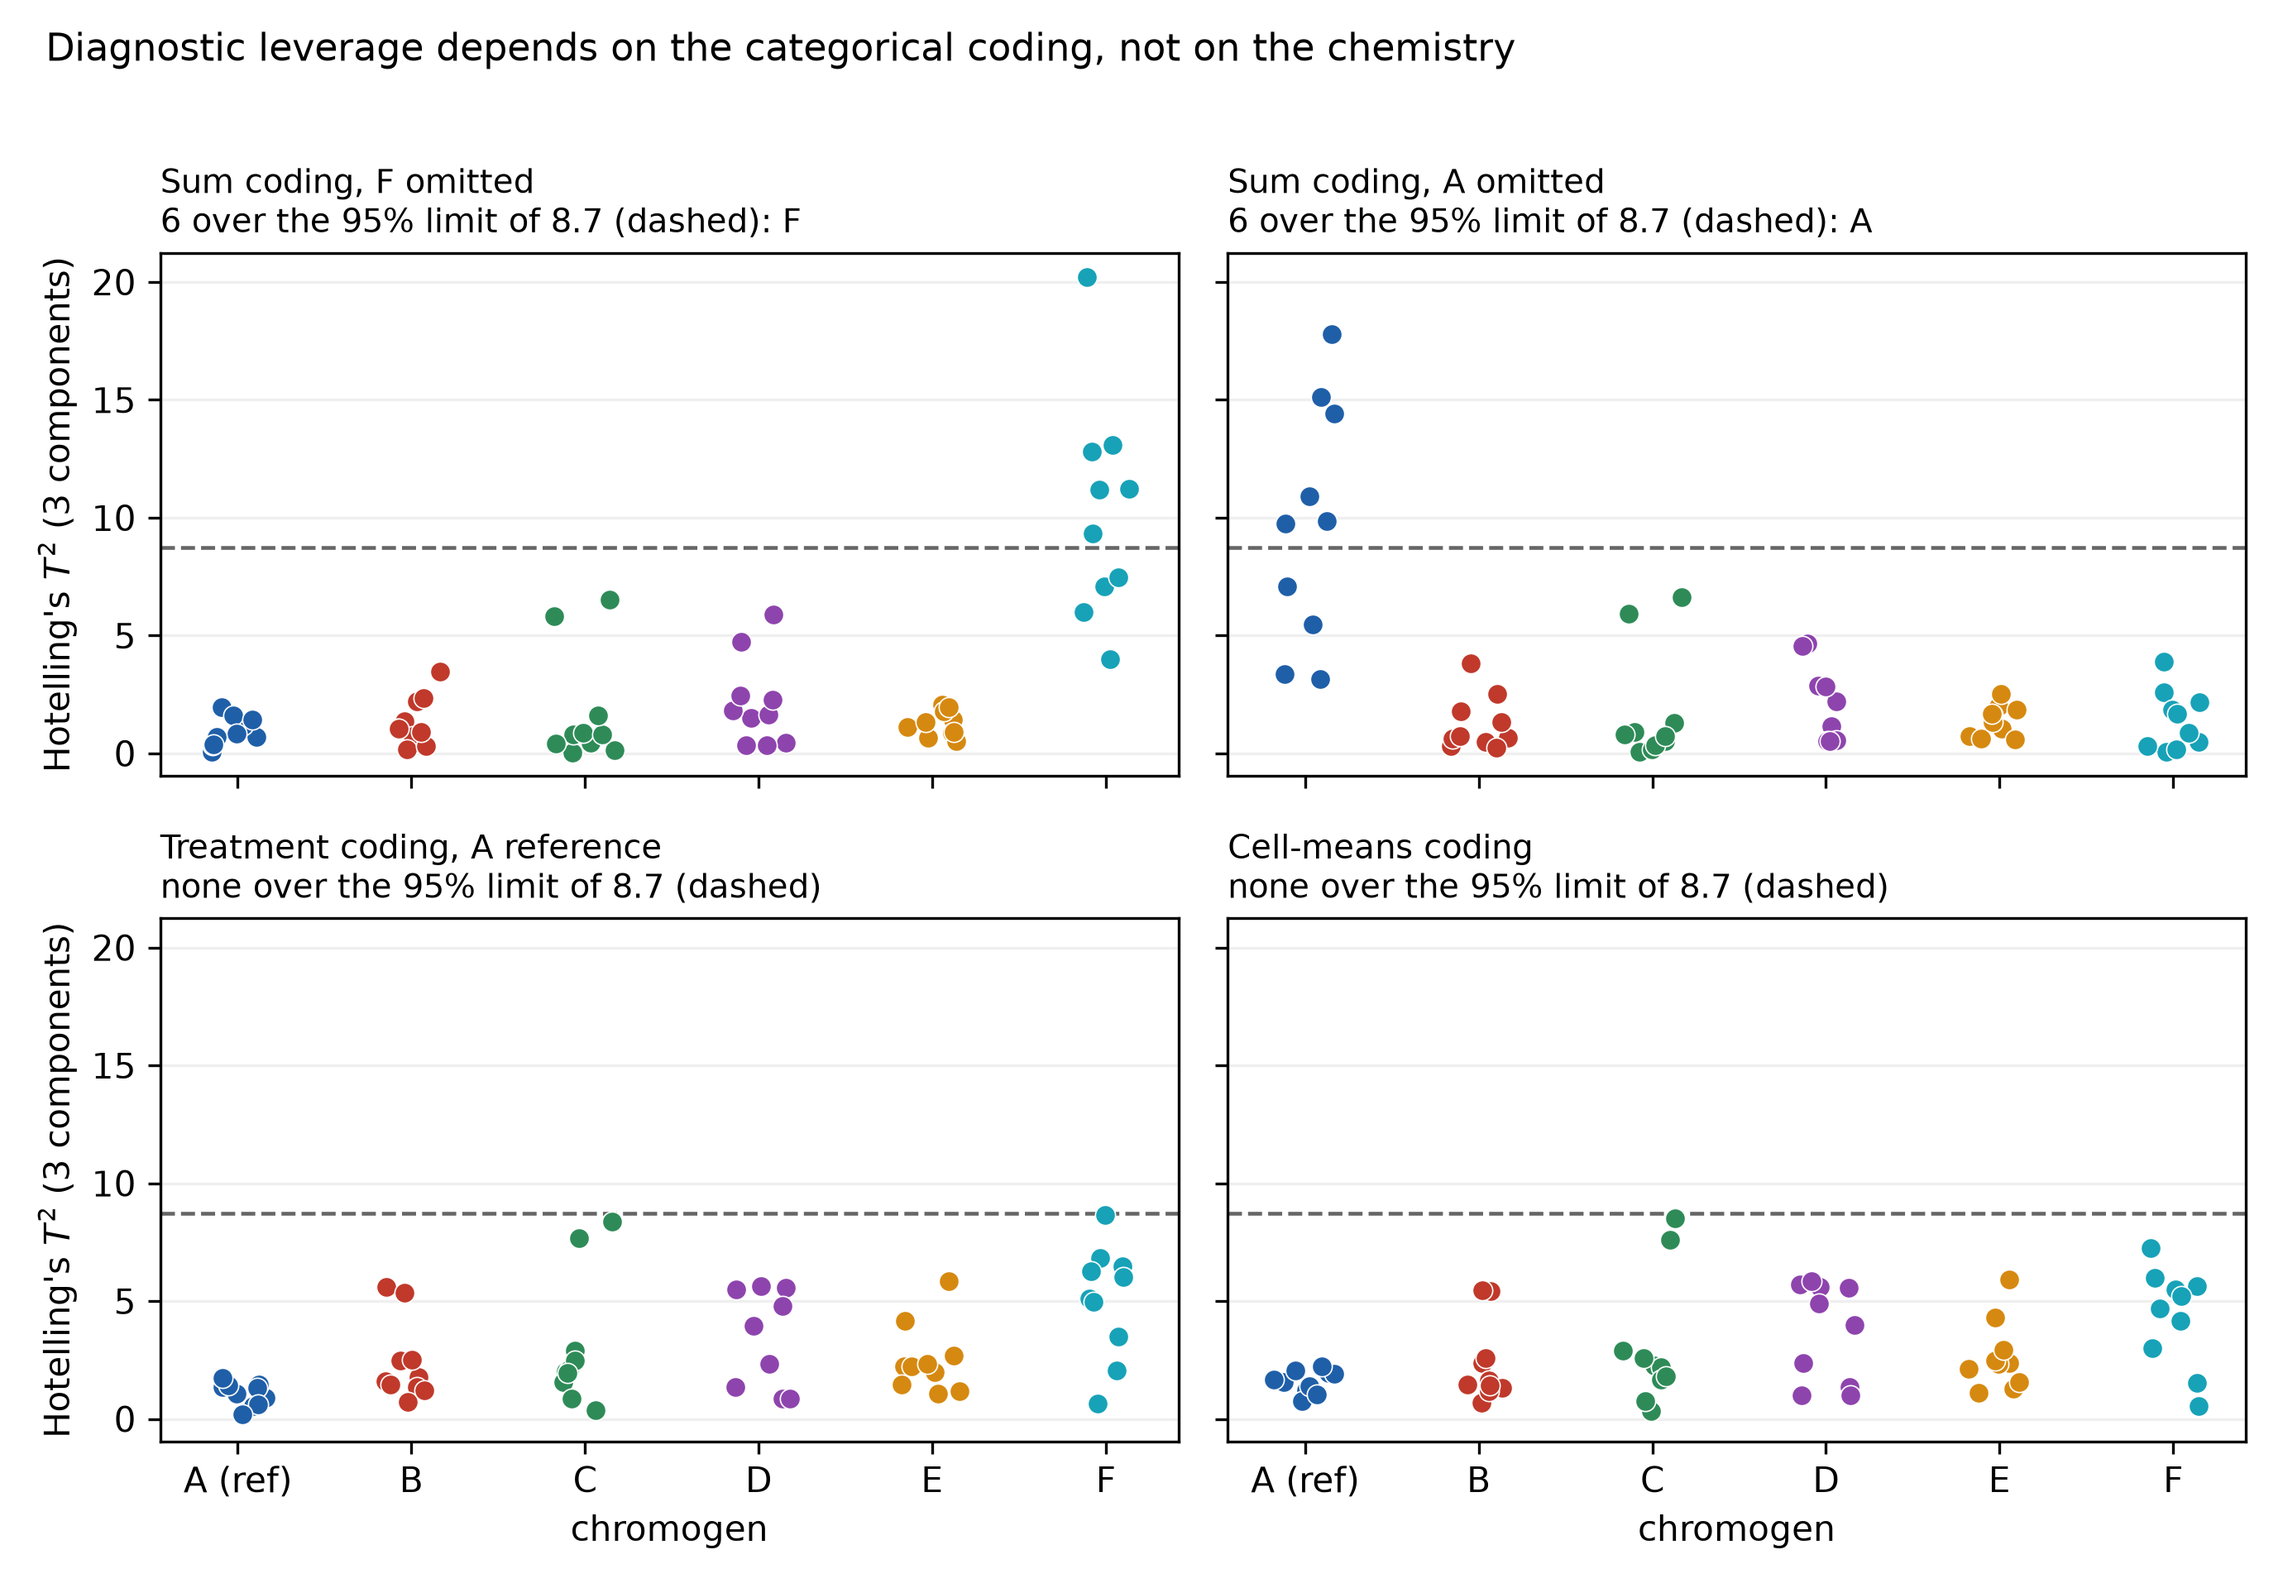
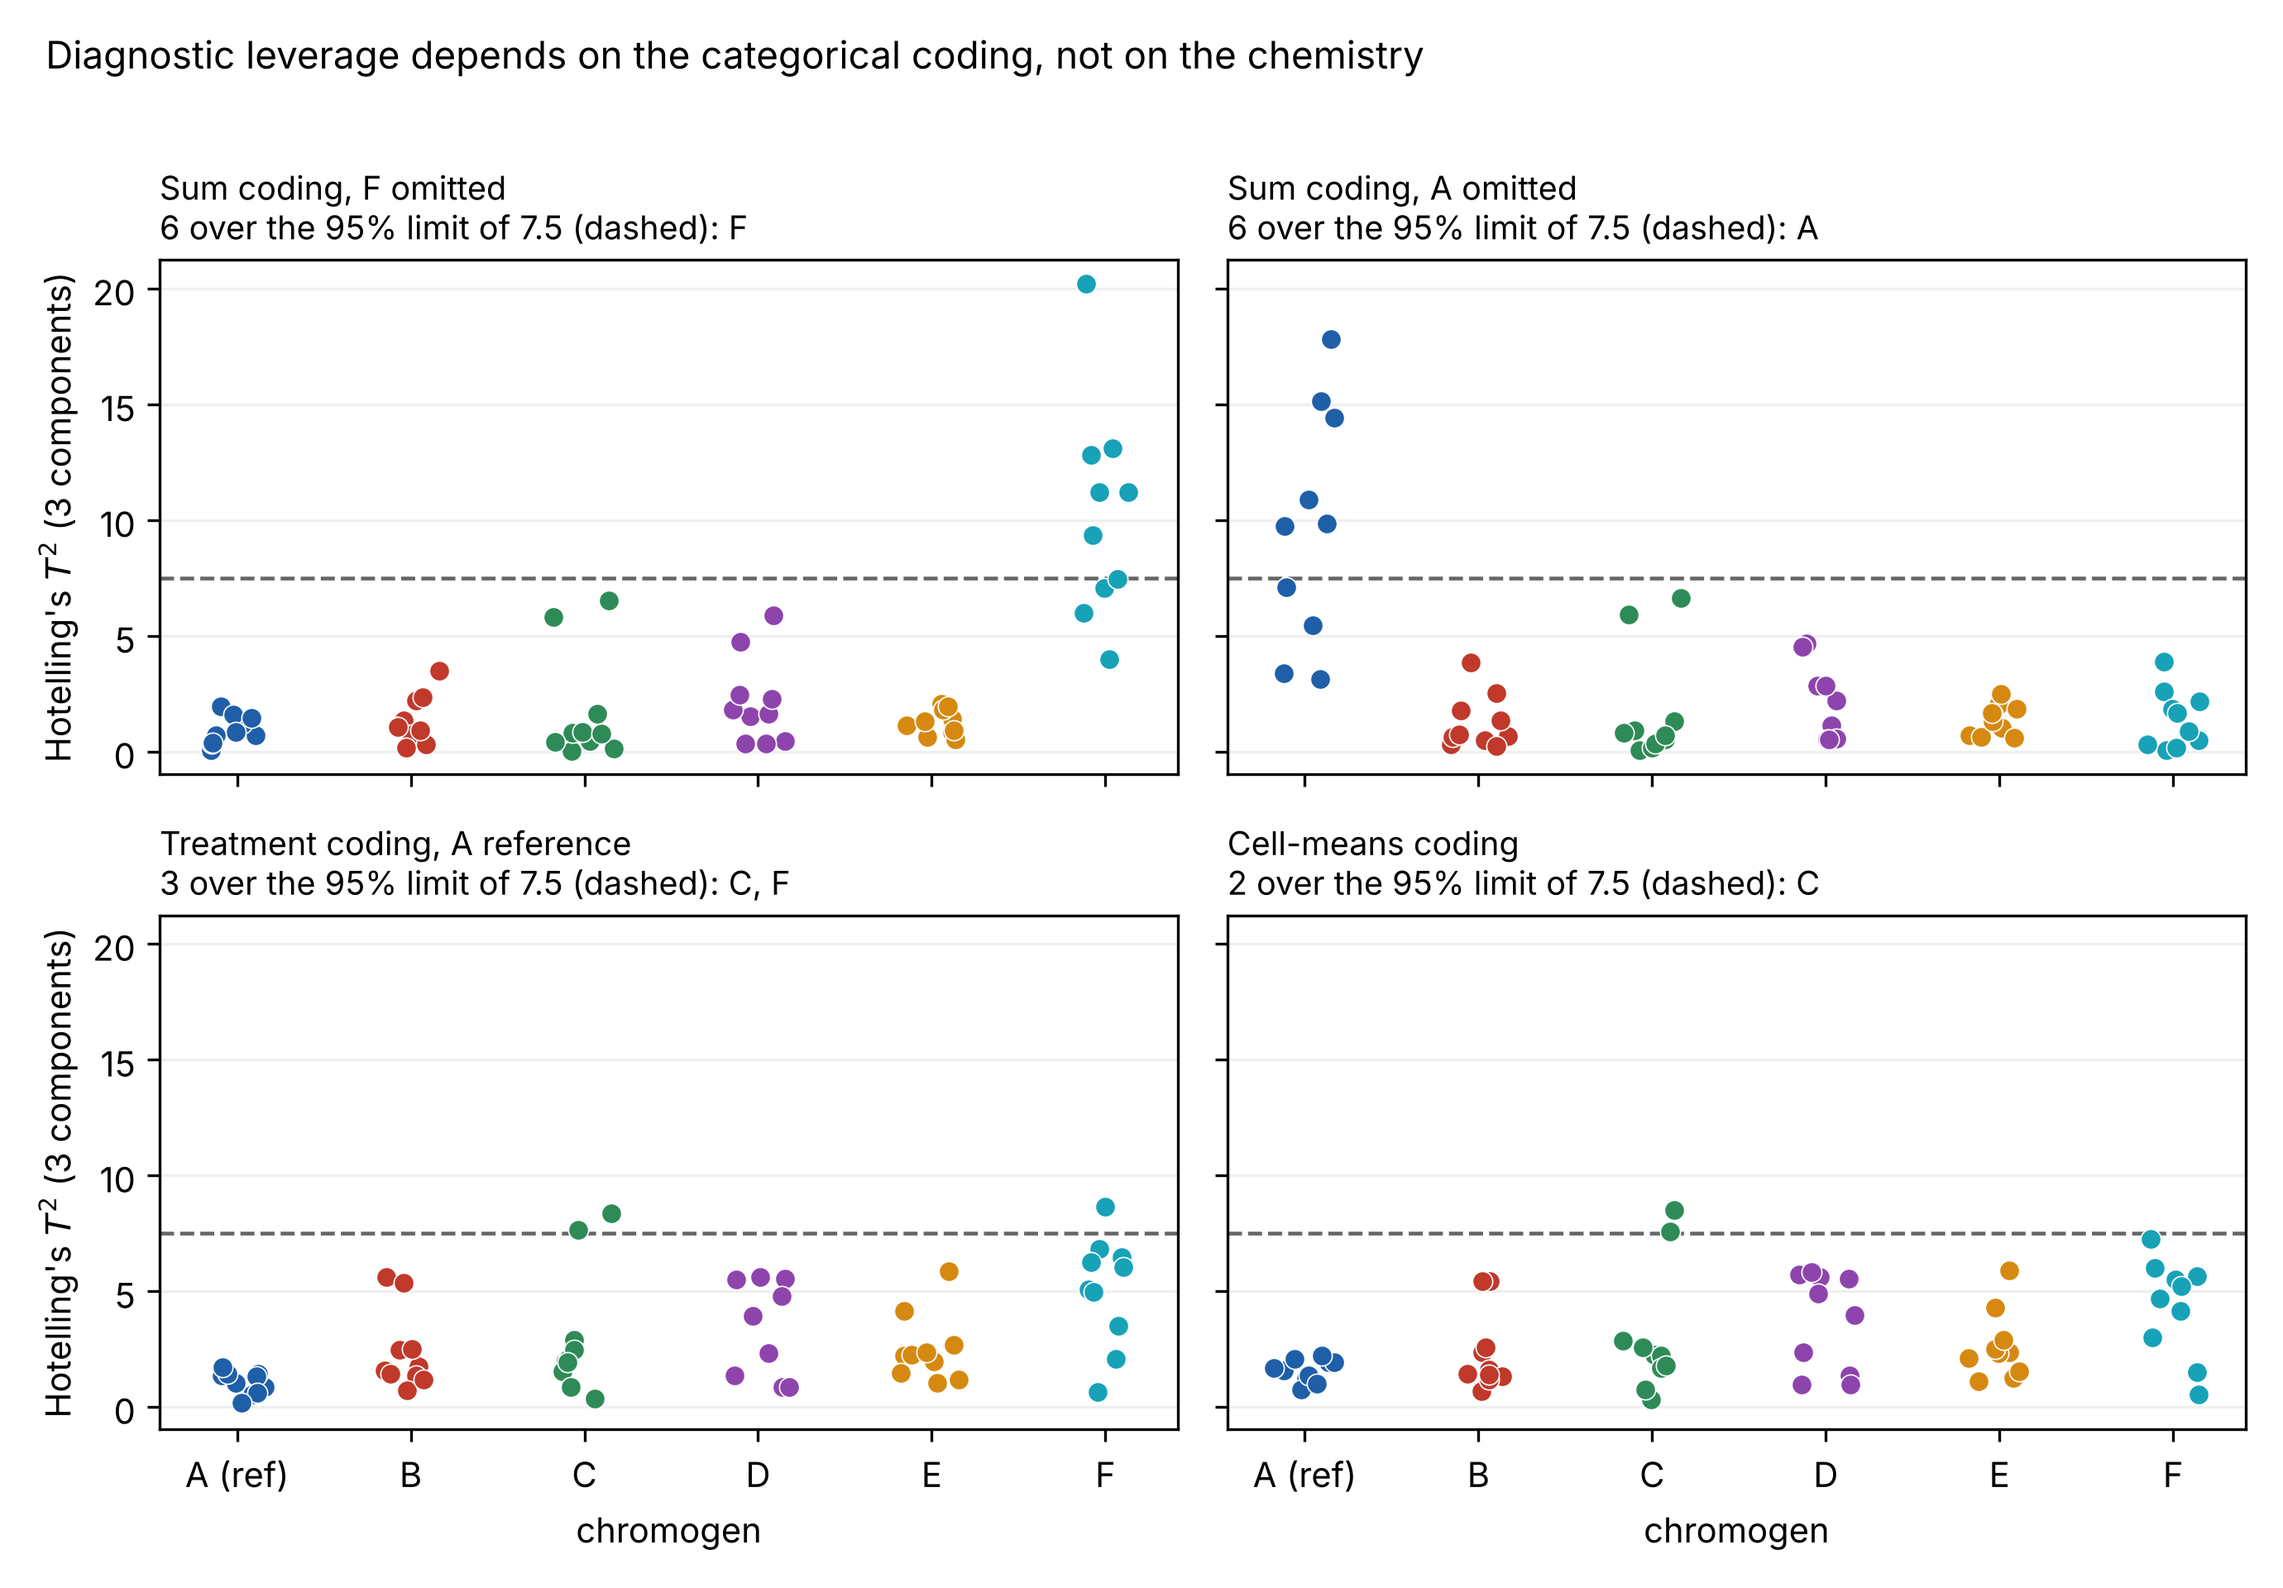
Colour case: the runs' T2 limit is for fitted rows, the goal's for a new row
The sixty runs are the rows the model was fitted to, so the T2-SPE figure
and the four-coding figure draw the limit for fitted rows, 7.5 (was the F
limit, 8.7). Under treatment and cell-means coding three and two runs now
pass it, none by much; the sum-coding flags are unchanged. The goal and the
inverted points are new rows, so goal_projection and the inversion
constraint keep the F limit (judged_rows="new"). The check scripts count
the runs against the fitted-row limit.

Claude-Session: https://claude.ai/code/session_01S4nNrQrezZa8Wt3JVywWoM

diff --git a/doe/check_colour_case_study.py b/doe/check_colour_case_study.py
@@ -105,10 +105,12 @@ pls_full = PLS(n_components=3, scale=True).fit(X_int, curves)
 g = goal_projection(pls_full, design_info)
 t2_run = pls_full.hotellings_t2_.iloc[:, -1].to_numpy()
 spe_run = pls_full.spe_.iloc[:, -1].to_numpy()
-print(f"  limits: T2_95={g['t2_limit']:.1f}  SPE_95={g['spe_limit']:.1f}")
+# The runs are the rows the model was fitted to; the goal is a new row, with the wider T2 limit.
+t2_lim_runs = float(pls_full.hotellings_t2_limit(0.95, judged_rows="fitted"))
+print(f"  limits: T2_95 runs={t2_lim_runs:.1f} new row={g['t2_limit']:.1f}  SPE_95={g['spe_limit']:.1f}")
 print(f"  goal (A at centre): SPE={g['spe']:.2f}  T2={g['t2']:.3f}  "
       f"(inside: {g['spe'] < g['spe_limit'] and g['t2'] < g['t2_limit']})")
-print(f"  runs over T2: {int((t2_run > g['t2_limit']).sum())}  over SPE: {int((spe_run > g['spe_limit']).sum())}  "
+print(f"  runs over T2: {int((t2_run > t2_lim_runs).sum())}  over SPE: {int((spe_run > g['spe_limit']).sum())}  "
       f"max T2={t2_run.max():.1f}")
 tab = invert_to_factors(pls_full, design_info, g["score"])
 for cmp_ in ["B", "C", "D", "E", "F"]:
@@ -182,7 +184,8 @@ def t2spe(cmp_, cd):
 
 
 y_goal = curve_of("A", [0, 0, 0, 0])
-t2_lim, spe_lim = float(pls_full.hotellings_t2_limit()), float(pls_full.spe_limit())
+# an inverted point is a new row, so it is held below the T2 limit for new rows
+t2_lim, spe_lim = float(pls_full.hotellings_t2_limit(judged_rows="new")), float(pls_full.spe_limit())
 for cmp_ in ["B", "C", "D", "E", "F"]:
     obj = lambda cd, _c=cmp_: float(np.sum((y_goal - curve_of(_c, cd)) ** 2))  # noqa: E731
     cons = [{"type": "ineq", "fun": lambda cd, _c=cmp_: t2_lim - t2spe(_c, cd)[0]},

diff --git a/doe/colour-coding-diagnostics.py b/doe/colour-coding-diagnostics.py
@@ -6,7 +6,9 @@ per-run Hotelling's T2 (leverage inside the model plane) depends on the coding. 
 coding the omitted level is carried as the negative sum of the other contrasts, the corner of the
 contrast space farthest from the centre, so its runs read as high leverage; change which level is
 omitted and the flag moves with it. Treatment (reference) and cell-means coding place no level at
-that corner, so the omitted-level flags disappear and no run passes the 95% T2 limit. Each panel
+that corner, so the omitted-level flags disappear: three and two runs pass the 95% T2 limit, none by
+much, which is what that limit allows among sixty. The limit is the one for the runs the model was
+fitted to (``judged_rows="fitted"``). Each panel
 title gives the limit and the runs over it, so no label sits on the points. Regenerates ``colour-coding-diagnostics.png``.
 """
 
@@ -39,7 +41,7 @@ for ax, (title, coding, order) in zip(axes.ravel(), panels):
     with contextlib.redirect_stderr(io.StringIO()):
         pls, _ = fit_coding(design, curves, coding, order=order)
     t2 = pls.hotellings_t2_.iloc[:, -1].to_numpy()
-    t2lim = float(pls.hotellings_t2_limit(0.95))
+    t2lim = float(pls.hotellings_t2_limit(0.95, judged_rows="fitted"))  # the runs the model was fitted to
     for c in COMPOUND_LEVELS:
         m = compound == c
         jit = rng.uniform(-0.18, 0.18, m.sum())

diff --git a/doe/colour-pls-t2-spe.py b/doe/colour-pls-t2-spe.py
@@ -2,7 +2,8 @@
 
 Each of the sixty runs is placed by its Hotelling's T2 (distance inside the model plane) and its
 SPE (distance to the model plane). The vertical and horizontal dashed lines are the 95% limits from
-``hotellings_t2_limit`` and ``spe_limit``; a run in the lower-left rectangle is within both. The
+``hotellings_t2_limit`` and ``spe_limit``, the T2 limit being the one for the runs the model was
+fitted to (``judged_rows="fitted"``); a run in the lower-left rectangle is within both. The
 reference goal (chromogen A at the centre point, projected onto the model) is drawn as an asterisk
 and sits well inside both limits, so the model's prediction can be trusted at that point.
 
@@ -33,7 +34,7 @@ with contextlib.redirect_stderr(io.StringIO()):
 
 t2 = pls.hotellings_t2_.iloc[:, -1].to_numpy()      # per-run T2 at 3 components (correct)
 spe = pls.spe_.iloc[:, -1].to_numpy()               # per-run SPE at 3 components (correct)
-t2_lim = float(pls.hotellings_t2_limit(0.95))
+t2_lim = float(pls.hotellings_t2_limit(0.95, judged_rows="fitted"))  # the runs the model was fitted to
 spe_lim = float(pls.spe_limit(0.95))
 goal = goal_projection(pls, design_info)
 

diff --git a/doe/colour_case_study.py b/doe/colour_case_study.py
@@ -366,7 +366,8 @@ def goal_projection(pls, design_info) -> dict:
     """Project chromogen A at the centre point (all continuous at coded 0) onto the fitted PLS.
 
     Returns the goal score, its SPE and Hotelling's T2, and the 95% limits, so the caller can
-    confirm the goal sits inside the model before using the prediction as an inversion target.
+    confirm the goal sits inside the model before using the prediction as an inversion target. The
+    goal is a new row to the model, so its T2 limit is the one for new rows (``judged_rows="new"``).
     """
     goal_x = encode_row(design_info, "A", [0.0, 0.0, 0.0, 0.0])
     p = project_point(pls, goal_x)
@@ -375,7 +376,7 @@ def goal_projection(pls, design_info) -> dict:
         "spe": p["spe"],
         "t2": p["t2"],
         "spe_limit": float(pls.spe_limit(0.95)),
-        "t2_limit": float(pls.hotellings_t2_limit(0.95)),
+        "t2_limit": float(pls.hotellings_t2_limit(0.95, judged_rows="new")),
     }
 
 

diff --git a/doe/check_coding_sensitivity.py b/doe/check_coding_sensitivity.py
@@ -46,7 +46,8 @@ def main():
         t2 = pls.hotellings_t2_.iloc[:, -1].to_numpy()
         spe = pls.spe_.iloc[:, -1].to_numpy()
         r2 = float(np.asarray(pls.r2_cumulative_).ravel()[-1])
-        t2lim, spelim = float(pls.hotellings_t2_limit()), float(pls.spe_limit())
+        # the runs are the rows each model was fitted to
+        t2lim, spelim = float(pls.hotellings_t2_limit(judged_rows="fitted")), float(pls.spe_limit())
         per = {c: round(float(t2[compound == c].max()), 1) for c in COMPOUND_LEVELS}
         overs = int((t2 > t2lim).sum())
         oversp = int((spe > spelim).sum())
